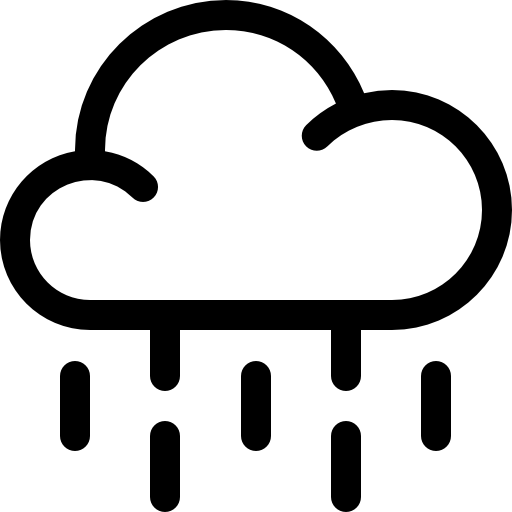
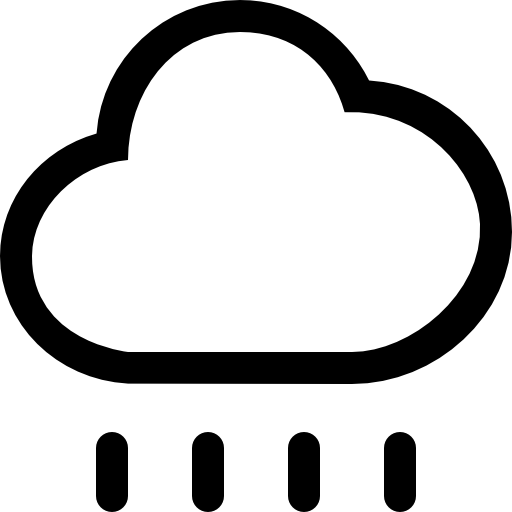
버튼 눌렀을 때 효과 구현(10.10)

diff --git a/front/client/src/views/main/Main.vue b/front/client/src/views/main/Main.vue
@@ -2,10 +2,10 @@
 	<div>
 		<section id="main-inner">
 			<div id="sidebar-box">
-				<router-link to="/sonagi">소나기</router-link>
-				<router-link to="/questions">발자국</router-link>
-				<router-link to="/book">독후감</router-link>
-				<router-link to="/munhak">문학</router-link>
+				<router-link to="/sonagi"><img class="iconsize" @click="selected = [1, 0, 0, 0]" :src="imgsrc[0][selected[0]]" alt="sonagi"/></router-link>
+				<router-link to="/questions"><img class="iconsize" @click="selected = [0, 1, 0, 0]" :src="imgsrc[1][selected[1]]" alt="footprint" /></router-link>
+				<router-link to="/book"><img class="iconsize" @click="selected = [0, 0, 1, 0]" :src="imgsrc[2][selected[2]]" alt="book"/></router-link>
+				<router-link to="/munhak"><img class="iconsize" @click="selected = [0, 0, 0, 1]" :src="imgsrc[3][selected[3]]" alt="munhak"/></router-link>
 				<!-- <router-link to="/postsonagi">소나기</router-link>
 				<router-link to="/postfootprint">발자국</router-link>
 				<router-link to="/postbook">독후감</router-link>
@@ -19,9 +19,19 @@
 </template>
 
 <script>
-	// import Header from "../components/Header.vue"
-	
 	export default {
+		data() {
+			return {
+				selected : [1, 0, 0, 0],
+				on: 1,
+				imgsrc : [
+				[require("../../assets/rain1.png"), require("../../assets/rain2.png")],
+					[require("../../assets/footprint1.png"), require("../../assets/footprint2.png")],
+						[require("../../assets/book1.png"), require("../../assets/book2.png")],
+						[require("../../assets/munhak1.png"), require("../../assets/munhak2.png")]
+				]
+			};
+		}, 
 		// components: {Header },
 		// computed: {
 		// 	user() {
@@ -32,6 +42,10 @@
 </script>
 
 <style scoped>
+	#main-inner #sidebar-box .iconsize {
+		width: 45px;
+		height: 45px;
+	}
 	a:active {
 		opacity: 0.5;
 	}
@@ -43,15 +57,10 @@
 		margin: 0 auto;
 	}
 	#main-inner #sidebar-box {
-		position: absolute;
+		position: fixed;
 		display: flex;
-		margin: 1rem 0 0;
-		/* width: 50px; */
-		/* height:100px; */
+		margin: -10px 24px 0;
 		flex-direction: column;
-		/* width: 48.75rem;
-		margin: 0 auto;
-		border: 1px solid red; */
 	}
 	#sidebar-box a:first-child {
 		margin-top: 0.25rem;
@@ -60,8 +69,6 @@
 		color: black;
 		text-decoration: none;
 		margin-bottom: 1.5rem;
-		/* border: 2px solid #C4C4C4;
-		border-radius: 10px; */
 		font-size: 20px;
 		font-weight: bold;
 		text-align: center;
@@ -70,11 +77,8 @@
 		color: black;
 	}
 	#main-inner #contents-box {
-		/* position: absolute; */
-		/* border: 1px solid; */
 		width: 43.75rem;
 		height: 1700px;
-		
 		margin: 0 auto;
 		justify-content: center;
 		align-items: center;

diff --git a/front/client/src/views/mypage/Mypage.vue b/front/client/src/views/mypage/Mypage.vue
@@ -10,10 +10,10 @@
 		</section>
 		<div id="mycontents">
 			<div id="box-button-content">
-				<router-link class="fontCenter" to="/mypage/sonagi"><span class="button-default button-content selectedbutton">소나기</span></router-link>
-				<router-link class="fontCenter" to="/mypage/footprint"><span class="button-default button-content selectedbutton">발자국</span></router-link>
-				<router-link class="fontCenter" to="/mypage/book"><span class="button-default button-content selectedbutton">독후감</span></router-link>
-				<router-link class="fontCenter" to="/mypage/munhak"><span class="button-default button-content selectedbutton">문학</span></router-link>
+				<router-link class="fontCenter" to="/mypage/sonagi" @click="changeBtn(1)"><span :class="{ gray: btn == 1}" class="button-default button-content">소나기</span></router-link>
+				<router-link class="fontCenter" to="/mypage/footprint" @click="changeBtn(2)"><span :class="{ gray: btn == 2}" class="button-default button-content">발자국</span></router-link>
+				<router-link class="fontCenter" to="/mypage/book" @click="changeBtn(3)"><span :class="{ gray: btn == 3}" class="button-default button-content">독후감</span></router-link>
+				<router-link class="fontCenter" to="/mypage/munhak" @click="changeBtn(4)"><span :class="{ gray: btn == 4}" class="button-default button-content">문학</span></router-link>
 			</div>
 			<section id="content-header"></section>
 			<section><!-- 안에 컨텐츠별 글 상자 나오게 구성-->
@@ -31,23 +31,32 @@
 			return {
 				username: "Dongu", 
 				userintro: "Nice to meet you!",
+				btn: 1
 			};
 		},
 		methods: {
-			selectedButton(obj){
-				obj.style.background = "#C4C4C4";
+			// selectedButton(n){
+			// 	if(n == 1) {
+			// 		console.log(n);
+			// 		this.$refs.bt1.style.backgroundColor = "#C4C4C4";
+			// 	}
+			// 	else if(n == 2) {
+			// 		console.log(n);
+			// 		this.$refs.bt2.style.backgroundColor = "#C4C4C4";
+			// 	}
+			// }
+			changeBtn(n){
+				this.btn = n;
 			}
-		}
+		},
 		// computed: {
-		// 	user() {
-		// 		return this.$store.state.user;
-		// 	}
+
 		// }
 	}
 </script>
 
 <style scope>
-	#main-contaniner a:link, a:visited, a:hover { color: #AFAFAF; text-decoration: none;}
+	#main-contaniner a:link, a:visited, a:hover { color: gray; text-decoration: none;}
 	#profile-box a:active { text-decoration:none; opacity: 0.8;}
 	#profile-box {
 		position: relative;
@@ -116,5 +125,9 @@
 		top: 0;
 		right: 0;
 		line-height: 2.375rem;
+	}
+	.gray {
+		background-color: #C4C4C4;
+		color: white;
 	}
 </style>

diff --git a/front/client/src/views/write/WriteMunhak.vue b/front/client/src/views/write/WriteMunhak.vue
@@ -3,9 +3,9 @@
 		<!-- <Header /> -->
 		<div id="main-contaniner">
 			<section id="writing-box-header">
-				<button id="button-poem" class="button-default button-clicked">시</button>
-				<button id="button-prose" class="button-default">산문</button>
-				<button id="button-novel" class="button-default">소설</button>
+				<button id="button-poem" @click="changeBtn(1)" :class="{ gray: btn == 1}" class="button-default button-clicked">시</button>
+				<button id="button-prose" @click="changeBtn(2)" :class="{ gray: btn == 2}" class="button-default">산문</button>
+				<button id="button-novel" @click="changeBtn(3)" :class="{ gray: btn == 3}" class="button-default">소설</button>
 			</section>
 			<section id="writing-box">
 				<input type="text" id="munhakTitle" placeholder="제목"/>
@@ -31,14 +31,18 @@
 		// components: {Header, },
 		data() {
 			return {
+				btn: 1,
 				Today: dayjs().format("YYYY-MM-DD"),
 				textValue: "",
 			};
 		}, 
 		methods: {
-			resize(obj) {
-				obj.style.height = "1px";
-				obj.style.height = (12 + obj.scrollHeight) + "px";
+			// resize(obj) {
+			// 	obj.style.height = "1px";
+			// 	obj.style.height = (12 + obj.scrollHeight) + "px";
+			// }
+			changeBtn(n){
+				this.btn = n;
 			}
 	}
 		// computed: {
@@ -48,6 +52,10 @@
 		// }
 	}
 </script>
+
+<style>
+	button:focus { outline: none;}
+</style>
 
 <style scoped>	
 	#main-contaniner #writing-box-header {
@@ -72,6 +80,10 @@
 		border-radius: 10px;
 		margin: 0 30px;
 		color: gray;
+	}
+	.gray {
+		background-color: #C4C4C4;
+		color: white !important;
 	}
 </style>
 

diff --git a/front/client/src/views/main/Mainmunhak.vue b/front/client/src/views/main/Mainmunhak.vue
@@ -40,11 +40,12 @@
 	}
 	#content-box p { margin: 0; }
 	#content-box #in-header {
-		display: grid;
+		display: flex;
+		justify-content: space-between;
 		align-items: center;
-		margin: 0.5rem 0;
+		margin: 0.5rem auto;
 	}
-	#content-box #in-header .title { font-size: 1.25rem; margin: 0 auto; }
+	#content-box #in-header .title { font-size: 1.25rem;}
 	#content-box #in-header .nickname { font-size: 1rem; text-align: right;}
 	#content-box .maintext-box {
 		display: -webkit-box;
@@ -55,6 +56,6 @@
 	#content-box .date-box {
 		text-align: right;
 		font-size: 0.875rem;
-		padding-bottom: 0.5rem;
+		padding: 0.5rem 0;
 	}
 </style>

diff --git a/front/client/src/views/Login.vue b/front/client/src/views/Login.vue
@@ -13,7 +13,7 @@
 					<a href="#" id="byn--signup" class="btn  btn--large button-submit" v-on:click="test()">SIGN UP</a>
 				</div>
 				<div class="ipt__btn">
-					<a href="#" class="btn btn--confirm btn--large button-submit" v-on:click="test()" :disabled="(user.id == 'ID') || (user.password == 'Password')">LOGIN</a>
+					<a href="#" class="btn btn--confirm btn--large button-submit" v-on:click="login()">LOGIN</a>
 				</div>
 			</div>
 		</div>
@@ -46,10 +46,7 @@
 				return 0;
 			}
 		},
-			created () {
-				
-			}
-		}
+	}
 </script>
 
 <style scoped>

diff --git a/front/client/src/views/write/WriteSonagi.vue b/front/client/src/views/write/WriteSonagi.vue
@@ -45,7 +45,7 @@
 
 <style>
 	#button-submit {
-		box-shadow: 0 1px 1px black;
+		box-shadow: 0 1px 2px black;
 	}
 	#button-submit:active {
 		outline: none;
@@ -54,6 +54,9 @@
 	}
 	#button-submit:focus {
 		outline: none;
+	}
+	#writing-box-footer .form-check-input {
+		border: 2px solid #C4C4C4;
 	}
 </style>
 <style scoped>	

diff --git a/front/client/src/views/main/Mainbook.vue b/front/client/src/views/main/Mainbook.vue
@@ -50,7 +50,6 @@
 	#content-box .date-box {
 		text-align: right;
 		font-size: 0.875rem;
-		/* padding-right: 0.8rem; */
-		padding-bottom: 0.5rem;
+		padding: 0.5rem 0;
 	}
 </style>

diff --git a/front/client/src/views/post/PostFootprint.vue b/front/client/src/views/post/PostFootprint.vue
@@ -64,6 +64,7 @@
 		display: block;
 		padding: 1rem 1rem 0.5rem;
 		border: 2px solid #C4C4C4;
+		border-radius: 4px;
 	}
 	#post-box .question-box {
 		margin: 0 auto 10px;

diff --git a/front/client/src/views/post/PostBook.vue b/front/client/src/views/post/PostBook.vue
@@ -66,6 +66,7 @@
 		display: block;
 		padding: 1rem 1rem 0.5rem;
 		border: 2px solid #C4C4C4;
+		border-radius: 4px;
 	}
 	#post-box .title-box {
 		margin: 0 auto;

diff --git a/front/client/src/views/post/PostMunhak.vue b/front/client/src/views/post/PostMunhak.vue
@@ -64,6 +64,7 @@
 		display: block;
 		padding: 1rem 1rem 0.5rem;
 		border: 2px solid #C4C4C4;
+		border-radius: 4px;
 	}
 	#post-box .title-box {
 		margin: 0 auto;

diff --git a/front/client/src/views/post/PostSonagi.vue b/front/client/src/views/post/PostSonagi.vue
@@ -62,6 +62,7 @@
 		display: grid;
 		padding: 1rem;
 		border: 2px solid #C4C4C4;
+		border-radius: 4px;
 	}
 	#post-box .sonagi-date-box {
 		margin: 0 auto;

diff --git a/front/client/src/components/Header.vue b/front/client/src/components/Header.vue
@@ -114,8 +114,8 @@
 </style>
 
 <style scope>
-#header {
-		position: absolute;
+	#header {
+		position: fixed;
 		width: 100%;
 		left: 0;
 		top: 0;
